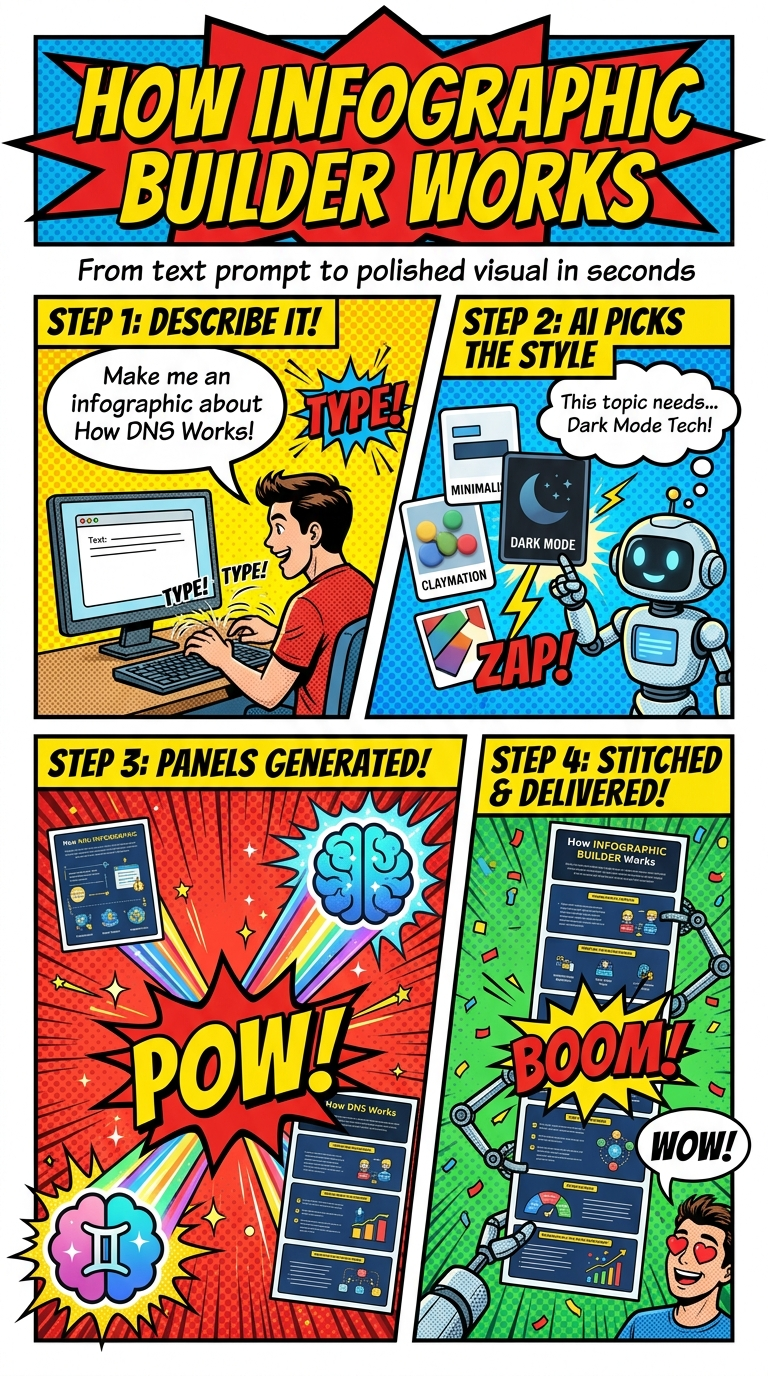
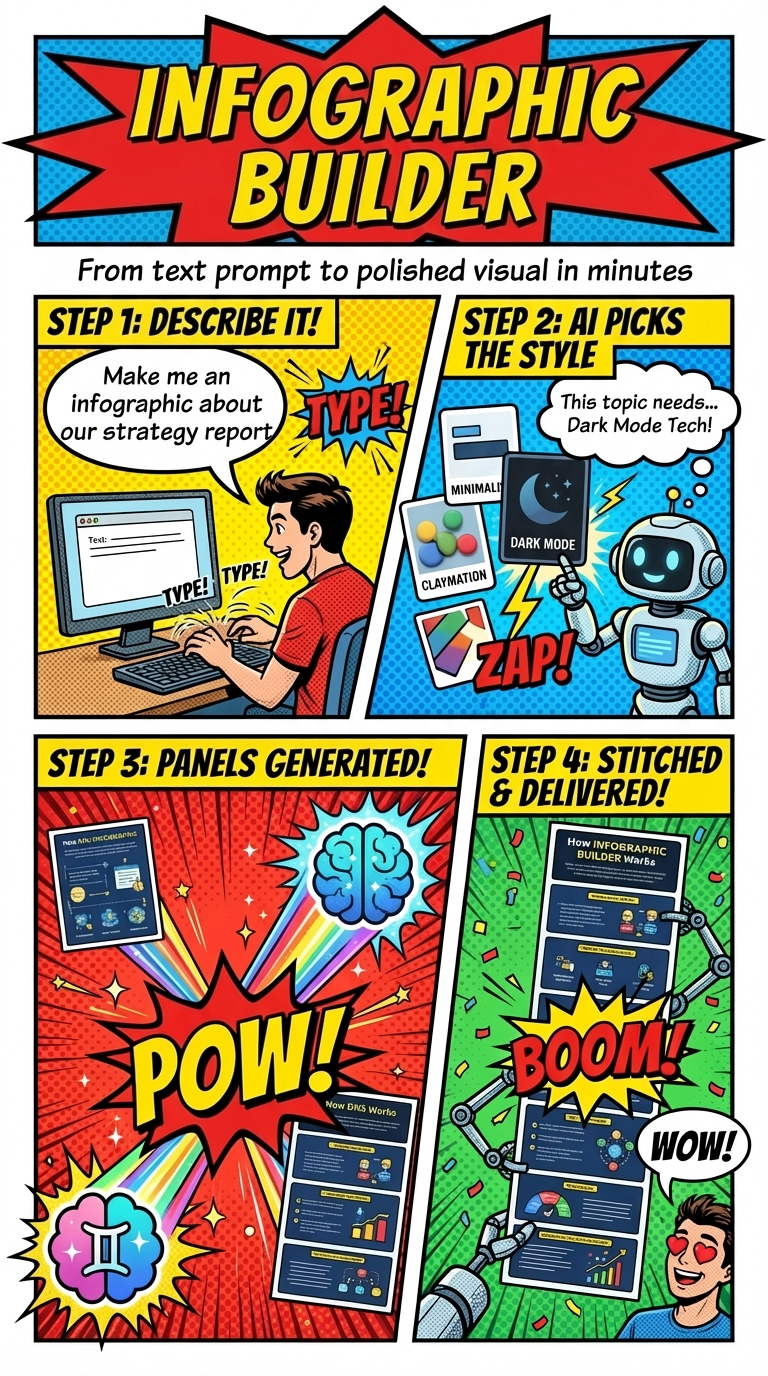
docs: update hero image and alt text in README
Updated hero image to reflect the new visual style:
- Changed image title from 'How Infographic Builder Works' to 'Infographic Builder'
- Added subtitle 'From text prompt to polished visual in minutes'
- Updated alt text to match the new visual messaging and workflow steps

This focuses on the README documentation update for the hero section.

diff --git a/README.md b/README.md
@@ -5,7 +5,7 @@
 [![Powered by Gemini](https://img.shields.io/badge/image_gen-Gemini-orange)](https://ai.google.dev/)
 
 <div align="center">
-  <img src="docs/readme/hero-overview-comic.png" width="560" alt="How Infographic Builder Works: 1. User types prompt, 2. AI selects layout and style, 3. Panels generated with Gemini, 4. Stitched into final infographic"/>
+  <img src="docs/readme/hero-overview-comic.png" width="560" alt="Infographic Builder: From text prompt to polished visual in minutes. 1. User types prompt, 2. AI selects layout and style, 3. Panels generated with Gemini, 4. Stitched into final infographic"/>
   <br><br>
   <strong>Say what you want, get a finished infographic.</strong>
   <br>
